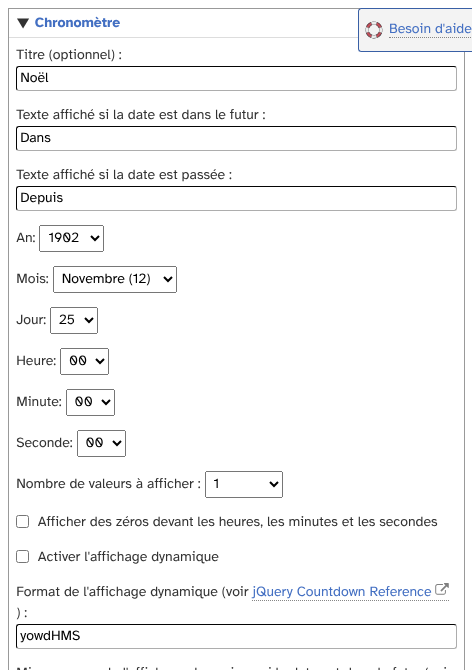
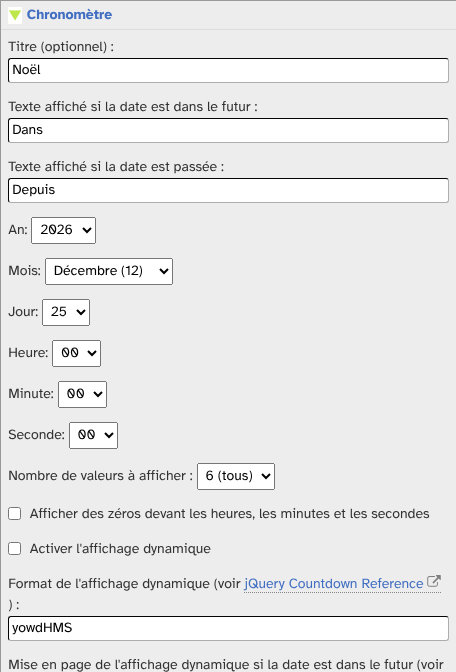
[cosmetic] User guide: follow the widget fixes, new settings screenshot

Changed region(s): [[0.0, 0.0, 1.0, 1.0], [0.7368, 0.0, 1.0, 0.1194]]

diff --git a/docs/fr/utilisation.md b/docs/fr/utilisation.md
@@ -77,10 +77,7 @@ Les champs _Nombre de valeurs_ et _zéros_ ne servent pas à l'affichage dynamiq
 
 ## Bon à savoir
 
-* Quand vous rouvrez les réglages, la liste _An_ affiche toujours 1902 et _Nombre de valeurs à afficher_ affiche 1, même si une autre valeur est enregistrée. Si vous enregistrez sans les corriger, ces valeurs sont remplacées. Resélectionnez-les à chaque modification.
-* Les noms des mois dans la liste _Mois_ sont tous « Novembre ». Seul le numéro entre parenthèses est exact.
-* Les listes _Minute_ et _Seconde_ vont jusqu'à 60. Choisir 60 ajoute une heure ou une minute.
-* Une date impossible (30 février) est acceptée et décalée au jour suivant.
-* Les mois et les années de l'affichage fixe sont comptés avec des durées moyennes (30,4 jours pour un mois). Le résultat peut différer d'un jour d'un calcul au calendrier.
-* L'affichage dynamique utilise l'heure de l'ordinateur du visiteur, l'affichage fixe celle du blog.
-* Le widget s'appelle « Chronomètre » dans la liste, et son titre par défaut est « CountDown ».
+* Une date impossible (31 avril, 30 février) est ramenée au dernier jour du mois.
+* Les mois et les années sont comptés au calendrier, avec leur vraie durée.
+* L'affichage dynamique vise le même instant que l'affichage fixe, dans le fuseau horaire du blog, quel que soit le fuseau du visiteur. Le compteur avance ensuite avec l'horloge de son ordinateur.
+* Le widget s'appelle « Chronomètre » dans la liste, et c'est aussi son titre par défaut.
